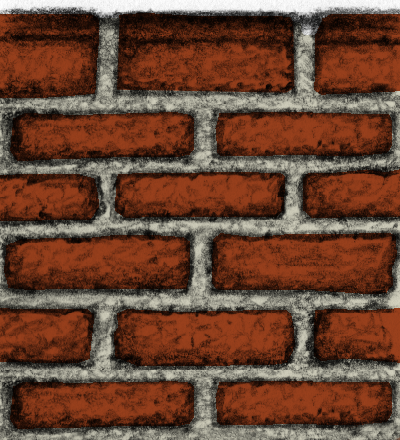
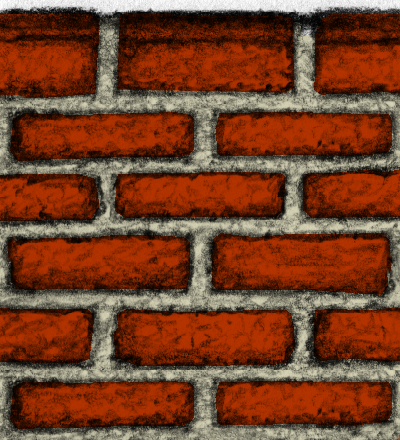
graphical touchups

diff --git a/html5/src/penduinart.js b/html5/src/penduinart.js
@@ -815,6 +815,9 @@ function penduinSCENE(canvas, logicWidth, logicHeight,
 		if(img === null) {
 			vignette = null;
 			return;
+		} else if(typeof(img) === "string") {
+			vignette = document.createElement("img");
+			vignette.src = img;
 		} else if(img) {
 			vignette = img;
 		} else {

diff --git a/html5/src/bub.js b/html5/src/bub.js
@@ -619,7 +619,7 @@ function start() {
 	BUB.thing.ork.addTags("bubble");
 	*/
 
-	BUB.scene.setVignette();
+	BUB.scene.setVignette("image/scribble/vign01.png");
 	//BUB.scene.setGhost(0.75);
 	//BUB.scene.setGlow(0.6, 6);
 	BUB.scene.transition(BUB.mask.ork, BUB.maskout);

diff --git a/html5/asset/edge.js b/html5/asset/edge.js
@@ -6,10 +6,10 @@ LOAD({
 			"name": "line",
 			"image": "image/scribble/edge.png",
 			"pivot": {
-				"x": 210,
-				"y": 390
+				"x": 215,
+				"y": 385
 			},
-			"rotate": 3,
+			"rotate": 4.5,
 			"scale": 1,
 			"alpha": 1,
 			"offset": {
